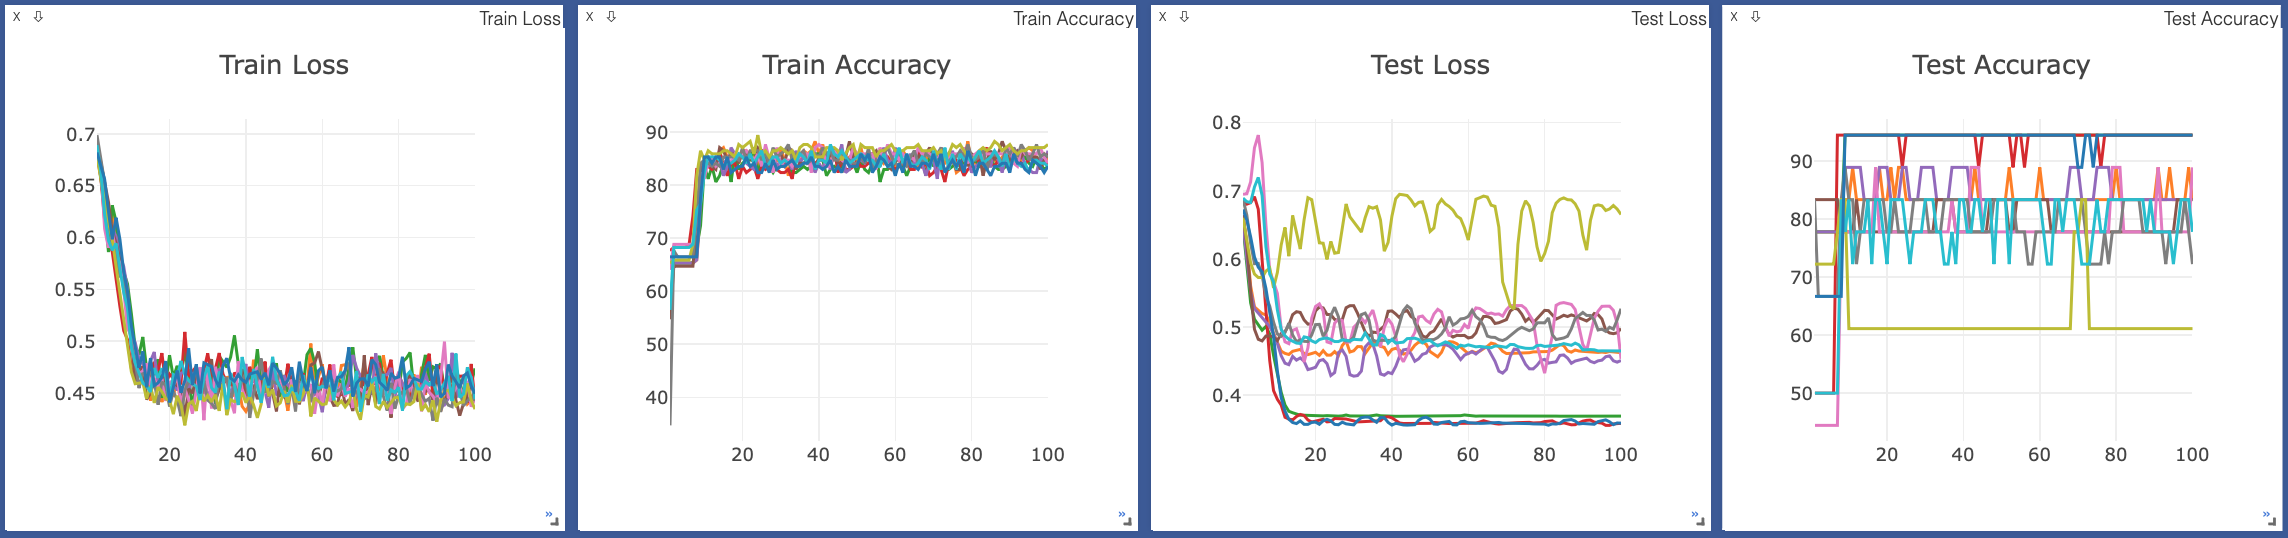
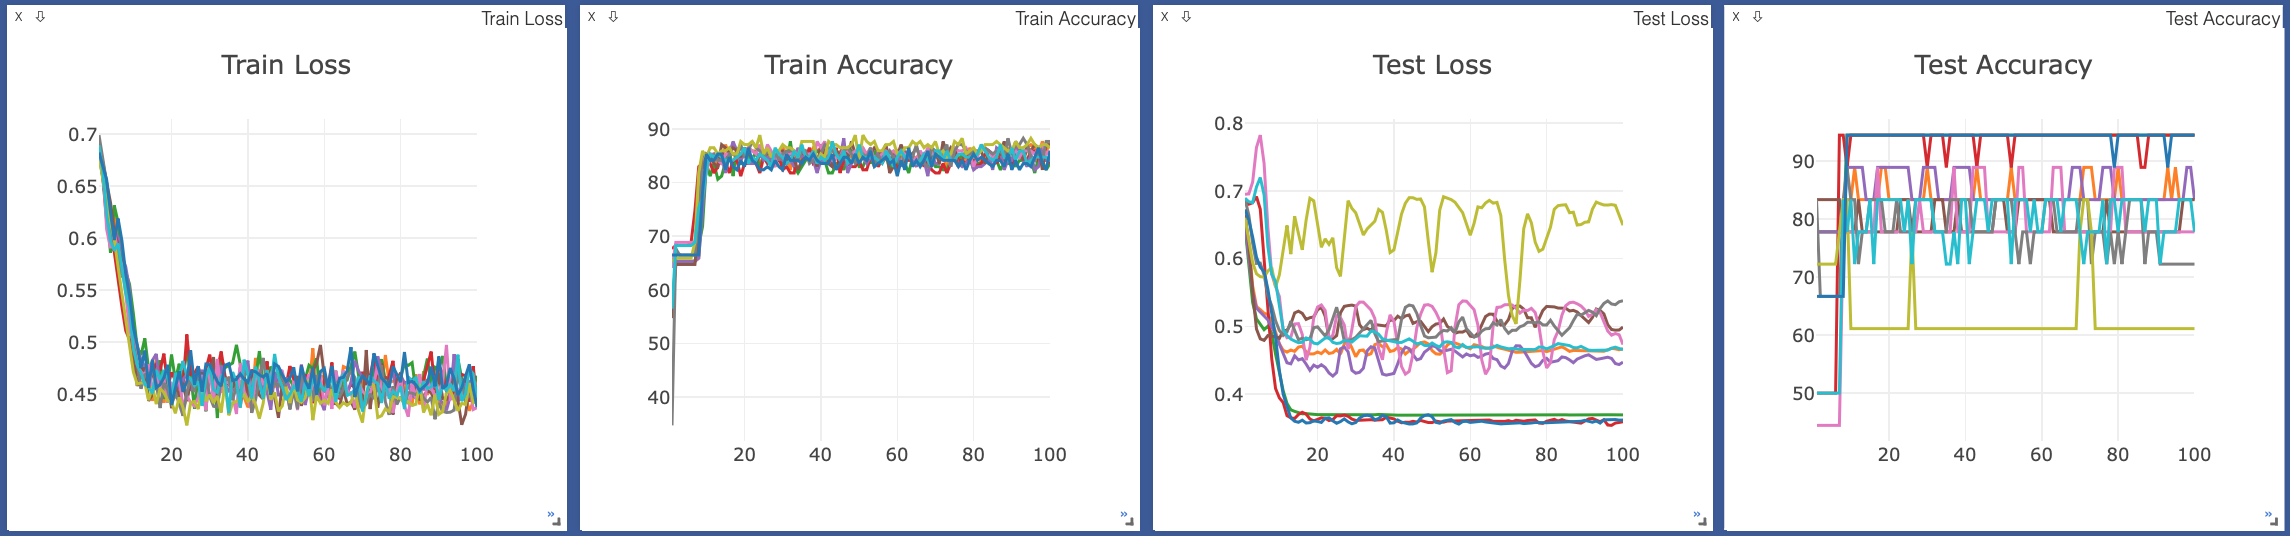
add three results

diff --git a/README.md b/README.md
@@ -86,8 +86,8 @@ vertex attributes and normalized node degrees. Secondly, **CrossEntropyLoss** is
       <td align="center">8</td>
       <td align="center">19</td>
       <td align="center">38</td>
-      <td align="center">8</td>
-      <td align="center">8</td>
+      <td align="center">5</td>
+      <td align="center">90</td>
       <td align="center">8</td>
       <td align="center">8</td>
       <td align="center">8</td>
@@ -97,8 +97,8 @@ vertex attributes and normalized node degrees. Secondly, **CrossEntropyLoss** is
       <td align="center">52,035</td>
       <td align="center">52,387</td>
       <td align="center">52,995</td>
-      <td align="center">6,851</td>
-      <td align="center">6,851</td>
+      <td align="center">51,939</td>
+      <td align="center">54,659</td>
       <td align="center">6,851</td>
       <td align="center">6,851</td>
       <td align="center">6,851</td>
@@ -116,22 +116,22 @@ vertex attributes and normalized node degrees. Secondly, **CrossEntropyLoss** is
     </tr>
     <tr>
       <td align="center">DGCNN (ours)</td>
-      <td align="center">83.42±6.78</td>
-      <td align="center">58.43±7.07</td>
-      <td align="center">83.41±8.47</td>
-      <td align="center">83.41±8.47</td>
-      <td align="center">83.41±8.47</td>
+      <td align="center">82.22±10.18</td>
+      <td align="center">62.94±8.24</td>
+      <td align="center">74.40±2.07</td>
+      <td align="center">72.52±3.72</td>
+      <td align="center">69.83±4.08</td>
       <td align="center">83.41±8.47</td>
       <td align="center">83.41±8.47</td>
       <td align="center">83.41±8.47</td>
     </tr>
     <tr>
       <td align="center">Training Time</td>
-      <td align="center">4.49s</td>
-      <td align="center">6.83s</td>
-      <td align="center">8</td>
-      <td align="center">8</td>
-      <td align="center">8</td>
+      <td align="center">4.51s</td>
+      <td align="center">6.88s</td>
+      <td align="center">61.63s</td>
+      <td align="center">21.20s</td>
+      <td align="center">64.98s</td>
       <td align="center">8</td>
       <td align="center">8</td>
       <td align="center">8</td>
@@ -147,14 +147,14 @@ The train loss、accuracy, test loss、accuracy are showed on visdom.
 ### PTC
 ![result](results/ptc.png)
 ### NCI1
-![result](results/mutag.png)
+![result](results/nci1.png)
 ### PROTEINS
-![result](results/mutag.png)
+![result](results/proteins.png)
 ### D&D
-![result](results/mutag.png)
+![result](results/dd.png)
 ### COLLAB
-![result](results/mutag.png)
+![result](results/collab.png)
 ### IMDB-B
-![result](results/mutag.png)
+![result](results/imdbb.png)
 ### IMDB-M
-![result](results/mutag.png)
+![result](results/imdbm.png)
